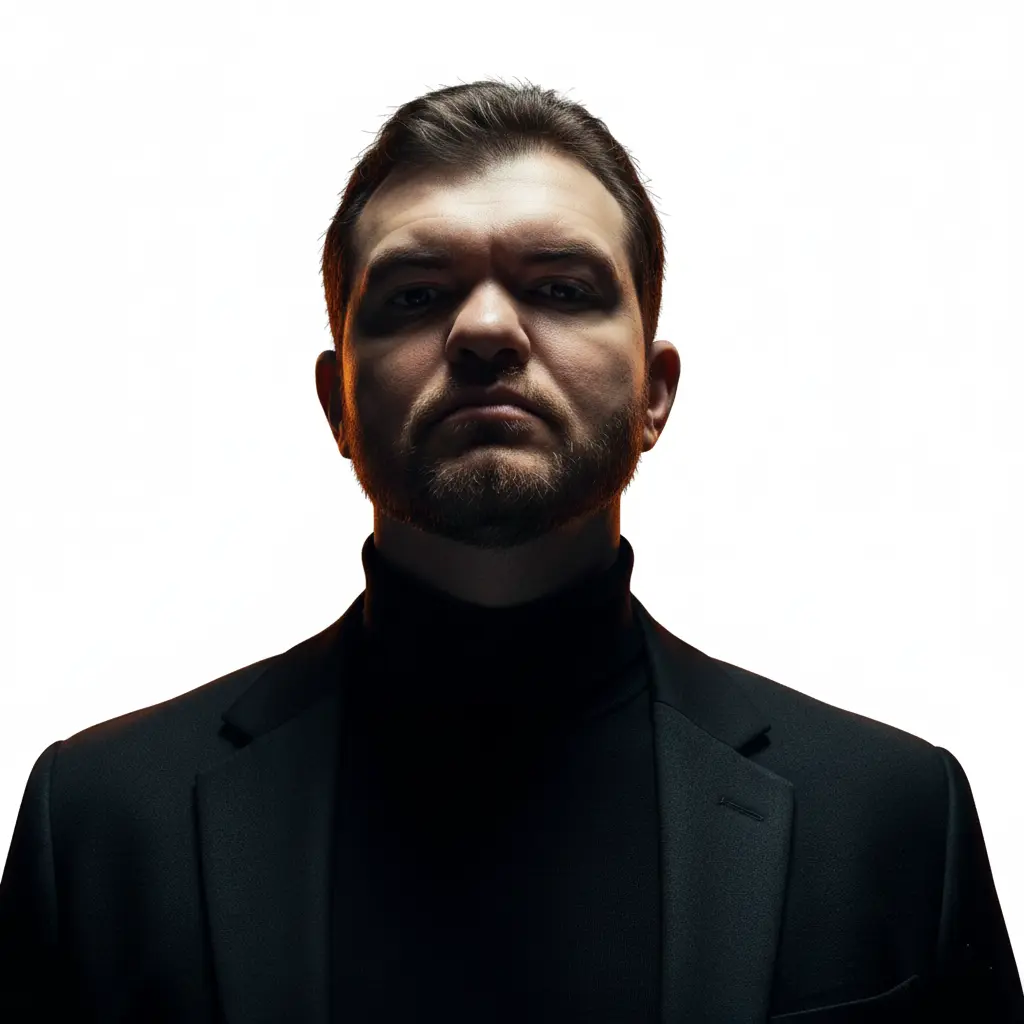
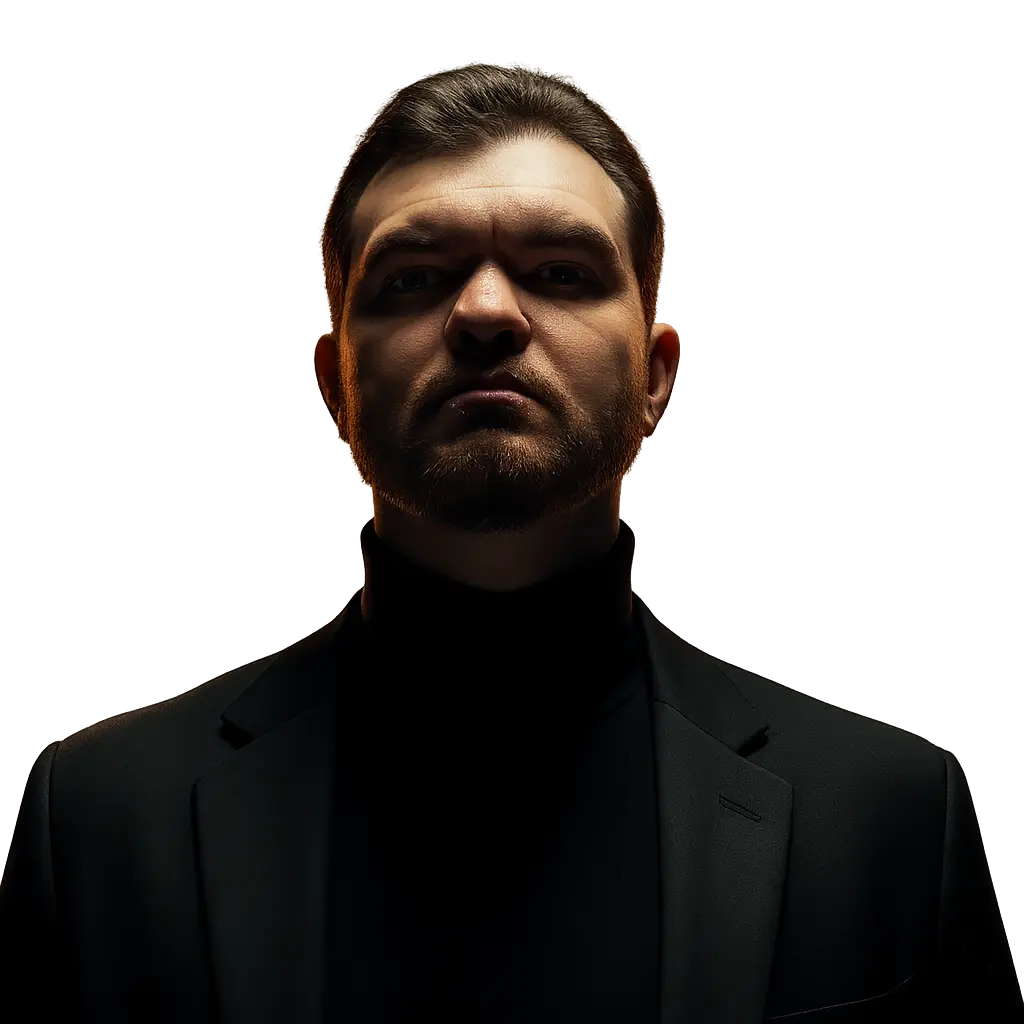
fix first page informations

diff --git a/src/app/(landing)/page.tsx b/src/app/(landing)/page.tsx
@@ -3,7 +3,7 @@
 import { Button } from '@/components/ui/button'
 import { Card, CardContent } from '@/components/ui/card'
 import { Badge } from '@/components/ui/badge'
-import { CheckCircle, Users, MessageSquare, Zap, Star, Trophy, Gamepad2, ChevronRight, Play } from 'lucide-react'
+import { CheckCircle, Users, Star, Trophy, Gamepad2, ChevronRight, Play, Lock, GraduationCap, Clock, Shield } from 'lucide-react'
 import Link from 'next/link'
 import Image from 'next/image'
 import { useEffect, useState } from 'react'
@@ -154,14 +154,20 @@ export default function LandingPage() {
                 <div className="absolute -right-20 top-1/3 w-40 h-80 bg-[#3B82F6]/20 blur-[100px] rounded-full" />
                 
                 {/* Main image */}
+                {/* Nota: unoptimized é necessário para preservar a transparência do WebP */}
                 <div className="relative">
                   <Image 
                     src="/waveigl.webp" 
                     alt="WaveIGL - Conrado Koerich" 
                     width={500} 
                     height={500}
-                    className="relative z-10 rounded-2xl"
+                    className="relative z-10 rounded-2xl bg-transparent"
+                    style={{ 
+                      backgroundColor: 'transparent',
+                      backgroundImage: 'none'
+                    }}
                     priority
+                    unoptimized
                   />
                   {/* Orange neon line left */}
                   <div className="absolute -left-8 top-1/4 bottom-1/4 w-1 bg-gradient-to-b from-transparent via-[#E38817] to-transparent opacity-60" />
@@ -190,10 +196,10 @@ export default function LandingPage() {
                 
                 {/* Subtitle */}
                 <p className="text-xl md:text-2xl text-[#D9D9D9]/70 mb-3 leading-relaxed">
-                  Faça parte da maior comunidade de CS2 do Brasil
+                  Comunidade exclusiva de aprendizado de CS2
                 </p>
                 <p className="text-base text-[#D9D9D9]/50 mb-8">
-                  Chat unificado • Discord VIP • Conteúdo exclusivo • Aulas gratuitas
+                  Discord VIP • Aulas ao vivo exclusivas • Conteúdo denso • Comunidade fechada
                 </p>
                 
                 {/* CTA Buttons */}
@@ -239,40 +245,40 @@ export default function LandingPage() {
             <h2 className="text-3xl md:text-5xl font-bold mb-4">
               Por que o <span className="text-[#E38817]">Clube WaveIGL</span>?
             </h2>
-            <p className="text-[#D9D9D9]/60 text-lg">Benefícios exclusivos para membros</p>
+            <p className="text-[#D9D9D9]/60 text-lg">Comunidade exclusiva para quem quer evoluir no CS2</p>
           </div>
           
           <div className="grid md:grid-cols-3 gap-6 max-w-5xl mx-auto">
             {[
               {
-                icon: <MessageSquare className="w-8 h-8" />,
-                title: 'Chat Unificado',
-                description: 'Conecte-se com a comunidade em Twitch, YouTube e Kick simultaneamente'
+                icon: <Users className="w-8 h-8" />,
+                title: 'Discord VIP Exclusivo',
+                description: 'Acesso a uma comunidade fechada apenas para assinantes do Clube, onde você interage diretamente com outros membros e o WaveIGL'
               },
               {
-                icon: <Users className="w-8 h-8" />,
-                title: 'Discord VIP',
-                description: 'Acesso exclusivo a canais, cargos especiais e interação direta com Wave'
+                icon: <GraduationCap className="w-8 h-8" />,
+                title: 'Aulas Ao Vivo Exclusivas',
+                description: 'Aulas ao vivo no Discord que não são gravadas nem salvas. Conteúdo denso e avançado que não é apresentado nas lives públicas'
+              },
+              {
+                icon: <Clock className="w-8 h-8" />,
+                title: 'Flexibilidade Total',
+                description: 'Aulas variadas conforme o WaveIGL quiser, no horário que ele quiser, pelo tempo que ele quiser. Conteúdo adaptado às necessidades da comunidade'
               },
               {
                 icon: <Gamepad2 className="w-8 h-8" />,
-                title: 'Aulas Gratuitas',
-                description: 'Aprenda CS2 com quem foi Top 9 nacional e ensina há mais de 7 anos'
+                title: 'Aprenda com o Melhor',
+                description: 'Aprenda CS2 com quem foi Top 9 nacional e ensina há mais de 7 anos. O mesmo conhecimento das aulas particulares, por uma fração do preço'
               },
               {
-                icon: <Zap className="w-8 h-8" />,
-                title: 'Conteúdo Exclusivo',
-                description: 'Lives especiais, análises de demos e conteúdo behind-the-scenes'
+                icon: <Lock className="w-8 h-8" />,
+                title: 'Conteúdo Protegido',
+                description: 'Nenhum conteúdo interno pode ser gravado ou postado. Aulas e discussões permanecem exclusivas para membros do Clube'
               },
               {
-                icon: <Trophy className="w-8 h-8" />,
-                title: 'Sorteios',
-                description: 'Participe de sorteios exclusivos de skins, incluindo Dragon Lore'
-              },
-              {
-                icon: <Star className="w-8 h-8" />,
-                title: 'Suporte Prioritário',
-                description: 'Tire dúvidas diretamente com moderadores e o próprio Wave'
+                icon: <Shield className="w-8 h-8" />,
+                title: 'Comunidade Selecionada',
+                description: 'Faça parte de um grupo seleto de pessoas comprometidas em evoluir no CS2. Ambiente focado em aprendizado e crescimento'
               }
             ].map((feature, i) => (
               <Card 
@@ -329,12 +335,12 @@ export default function LandingPage() {
                 
                 <ul className="space-y-4 mb-8 text-left">
                   {[
-                    'Chat unificado em todas as plataformas',
-                    'Acesso ao Discord VIP',
-                    'Aulas de CS2 gratuitas',
-                    'Sorteios exclusivos de skins',
-                    'Suporte prioritário',
-                    'Badge exclusivo no chat'
+                    'Acesso ao Discord VIP exclusivo',
+                    'Aulas ao vivo não gravadas',
+                    'Conteúdo denso e avançado de CS2',
+                    'Aulas variadas conforme disponibilidade',
+                    'Comunidade fechada e selecionada',
+                    'Mesmo conhecimento das aulas particulares'
                   ].map((item, i) => (
                     <li key={i} className="flex items-center text-[#D9D9D9]/80">
                       <CheckCircle className="w-5 h-5 text-[#E38817] mr-3 flex-shrink-0" />
